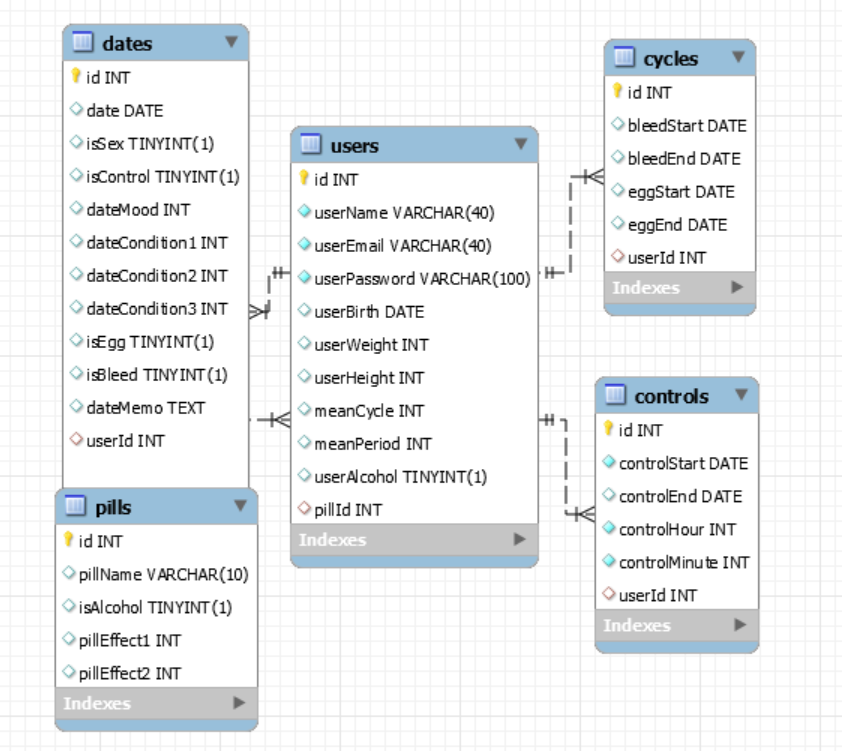
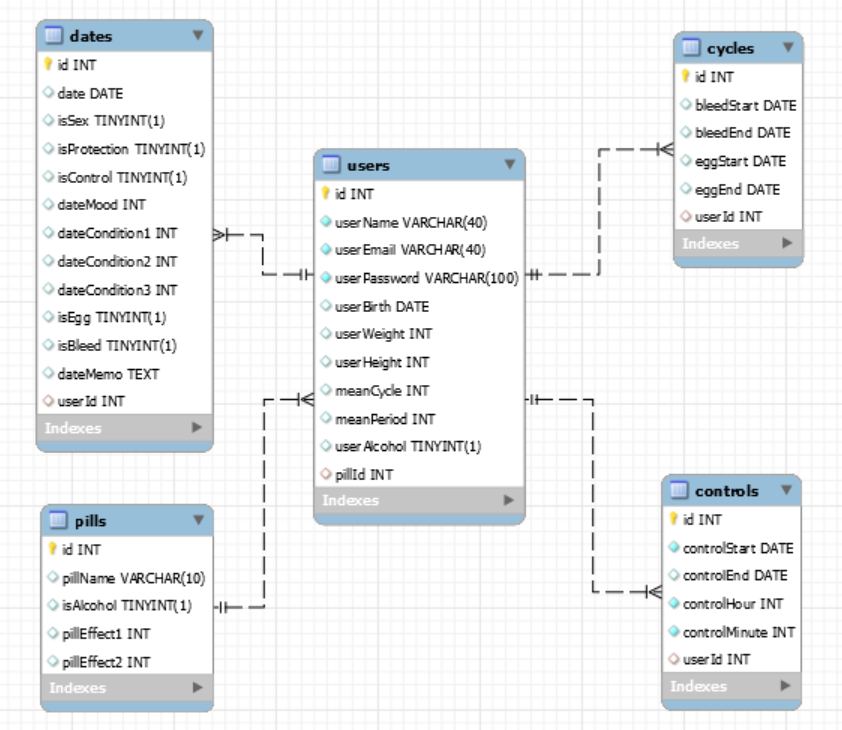
Update database

Changed region(s): [[0.0309, 0.0, 0.9572, 0.9945]]

diff --git a/models/date.js b/models/date.js
@@ -8,6 +8,9 @@ module.exports = (sequelize, DataTypes) => {
       isSex: {
         type: DataTypes.BOOLEAN,
       },
+      isProtection: {
+        type: DataTypes.BOOLEAN,
+      },
       isControl: {
         type: DataTypes.BOOLEAN,
       },
